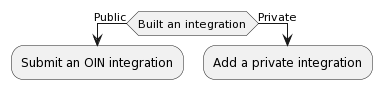
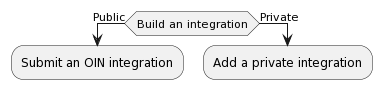
Edits based on feedback from Tova

Changed region(s): [[0.2304, 0.1348, 0.7775, 0.3371], [0.6335, 0.3371, 0.6623, 0.4045], [0.3455, 0.3371, 0.3743, 0.4045]]

diff --git a/packages/@okta/vuepress-theme-prose/const/navbar.const.js b/packages/@okta/vuepress-theme-prose/const/navbar.const.js
@@ -649,12 +649,12 @@ export const guides = [
                 guideName: "submit-oin-app",
               },
               {
-                title: "OIN Manager: Submit an advanced SAML integration",
-                guideName: "submit-sso-app",
-              },
-              {
                 title: "OIN Manager: Submit an LCM integration",
                 guideName: "submit-app",
+              },
+              {
+                title: "OIN Manager: Submit an SSO integration (to remove) ",
+                guideName: "submit-sso-app",
               },
             ]
           },

diff --git a/packages/@okta/vuepress-site/docs/guides/add-private-app/main/index.md b/packages/@okta/vuepress-site/docs/guides/add-private-app/main/index.md
@@ -30,7 +30,7 @@ Registration involves creating an app integration instance in your Okta org to p
 
 > **Note:** An app integration is considered public if it's available in the Okta Integration Network (OIN) catalog for all Okta customers.
 
-This guide assumes that you've developed your SSO integration and want to add it to your Okta org. The instructions in this guide are generic for two SSO standards:
+This guide assumes that you've developed your app SSO integration and want to add it to your Okta org. The instructions in this guide are generic for two SSO standards:
 
 * **OpenID Connect (OIDC)** (preferred)
 * **Security Assertion Markup Language (SAML)**
@@ -39,9 +39,9 @@ This guide assumes that you've developed your SSO integration and want to add it
 
 ## Create your private integration in Okta
 
-After you've built your SSO integration, you can use the Application Integration Wizard (AIW) in the Admin Console to create your app integration instance. This instance provides you with client credentials or metadata for your SSO flows.
+After you've built your app SSO integration, you can use the Application Integration Wizard (AIW) in the Admin Console to create your app integration instance. This instance provides you with client credentials or metadata for your SSO flows.
 
-> **Note:** For best practices, create two or three additional admin users in Okta to manage the integration. This ensures that your team can access the integration for updates in the future.
+> **Note:** For best practices, create two or three additional admin users in your Okta org to manage the integration. This ensures that your team can access the integration for updates in the future.
 
 1. Sign in to your [developer-edition Okta org](/login/) as a user with administrative privileges.
 1. Go to **Applications** > **Applications** in the Admin Console.
@@ -49,9 +49,6 @@ After you've built your SSO integration, you can use the Application Integration
 
 <StackSnippet snippet="create" />
 
-<br>
-
-> **Note:** Creating your app integration instance doesn't automatically make it available in the [OIN](https://www.okta.com/integrations/). See [Publish an OIN integration](/docs/guides/submit-app-overview/) for an overview of the submission process.
 
 ## Specify your integration settings
 

diff --git a/packages/@okta/vuepress-site/docs/guides/oin-sso-overview/index.md b/packages/@okta/vuepress-site/docs/guides/oin-sso-overview/index.md
@@ -53,7 +53,7 @@ As an example, `alice.doe@example.com` is a registered Okta user in both Company
 
 Okta orgs host their interfaces through individual subdomains and each org is assigned a separate URL. The typical org URL is the tenant name (the subdomain) followed by the domain name. However, you can customize the domain name for your own domain and add individual aliases for each of your tenants.
 
-> **Note:** The process for specifying the variable app instance names in an OIDC app is explained in the [Submit an SSO integration: OIDC settings](/docs/guides/submit-sso-app/openidconnect/main/#oidc-settings).
+> **Note:** The process for specifying the variable app instance names in an OIDC app is explained in [Submit an SSO integration with the OIN Wizard: Integration variables](/docs/guides/submit-oin-app/openidconnect/main/#integration-variables).
 
 ## Use case examples
 
@@ -104,6 +104,6 @@ Ready to get started? Choose how you want to implement your SSO app integration:
 </Cards>
 <br>
 
-After your app integration is built and tested, [review the submission requirements](/docs/guides/submit-app-prereq/main/) and [submit the integration](/docs/guides/submit-app-overview/) to the Okta OIN team for verification and publication.
+After your app integration is built, [submit the integration](/docs/guides/submit-app-overview/) to the Okta OIN team for verification and publication.
 
 Want to automate even more for your customers and increase adoption of your product? Learn more about [lifecycle management integration](/docs/guides/oin-lifecycle-mgmt-overview/) in the OIN.

diff --git a/packages/@okta/vuepress-site/docs/guides/submit-app-prereq/main/index.md b/packages/@okta/vuepress-site/docs/guides/submit-app-prereq/main/index.md
@@ -390,6 +390,8 @@ Include this section if there are known issues that apply to the entire configur
 
 You can't publish integrations with the following Okta features in the OIN catalog:
 
+* **Advanced SAML apps:** The OIN Wizard doesn't support new advanced SAML integrations, such as integrations with more than three app instance variables. Some ISVs use many app instance variables to help identify app instances for each of their customers. The OIN team maintains existing advanced SAML integrations. If you need to update your existing advanced SAML integration, contact the OIN team at <oin@okta.com>.
+
 * **SWA apps:** Okta no longer publishes new Secure Web Authentication (SWA) integrations to the OIN catalog. The OIN team maintains existing SWA integrations.
 
 * **Custom authorization server:** An OIDC or API service integration can't use a [custom authorization server](/docs/concepts/auth-servers/#custom-authorization-server), including the `default` server. You can only use the [org authorization server](/docs/concepts/auth-servers/#org-authorization-server).

diff --git a/packages/@okta/vuepress-site/docs/guides/submit-oin-app/main/index.md b/packages/@okta/vuepress-site/docs/guides/submit-oin-app/main/index.md
@@ -51,7 +51,9 @@ This guide covers submissions that use the following protocols:
 
 * [Security Assertion Markup Language (SAML)](http://docs.oasis-open.org/security/saml/Post2.0/sstc-saml-tech-overview-2.0.html)
 
-    > **Note:** SAML integrations must use SHA256 encryption for security. If you're using SHA-1 for encryption, see our guide on how to [Upgrade SAML Apps to SHA256](/docs/guides/updating-saml-cert/).
+    > **Notes:**
+    > * SAML integrations must use SHA256 encryption for security. If you're using SHA-1 for encryption, see our guide on how to [Upgrade SAML Apps to SHA256](/docs/guides/updating-saml-cert/).
+    > * The OIN Wizard doesn't support advanced SAML integrations, such as integrations with more than three app instance variables. Some ISVs use many app instance variables to help identify app instances for each of their customers.
 
 > **Note:** SWA app integrations are no longer accepted for publication in the OIN catalog. However, the OIN team still maintains existing SWA apps.
 

diff --git a/packages/@okta/vuepress-site/docs/guides/submit-sso-app/main/index.md b/packages/@okta/vuepress-site/docs/guides/submit-sso-app/main/index.md
@@ -6,6 +6,12 @@ meta:
 layout: Guides
 ---
 
+<ApiLifecycle access="deprecated" />
+
+> **Deprecated:** As of release Jan 6, 2024, you can't submit OIDC and SAML integrations using the OIN Manager. Use the new [OIN Wizard](/docs/guides/submit-oin-app) for a seamless ISV submission experience.
+
+---
+
 Use this guide to understand the process of submitting a Single Sign-On (SSO) OIDC or SAML 2.0 integration to the Okta Integration Network (OIN) using the OIN Manager. It also shows you how to update a previously published integration or delete a draft submission.
 
 ---

diff --git a/packages/@okta/vuepress-site/docs/guides/build-sso-integration/main/index.md b/packages/@okta/vuepress-site/docs/guides/build-sso-integration/main/index.md
@@ -63,7 +63,7 @@ Instructions for adding your SSO integration into Okta depend on if you want to 
 
 <!--
 @startuml
-if (Built an integration) then (Public)
+if (Build an integration) then (Public)
    :Submit an OIN integration;
    kill
 else (Private)
